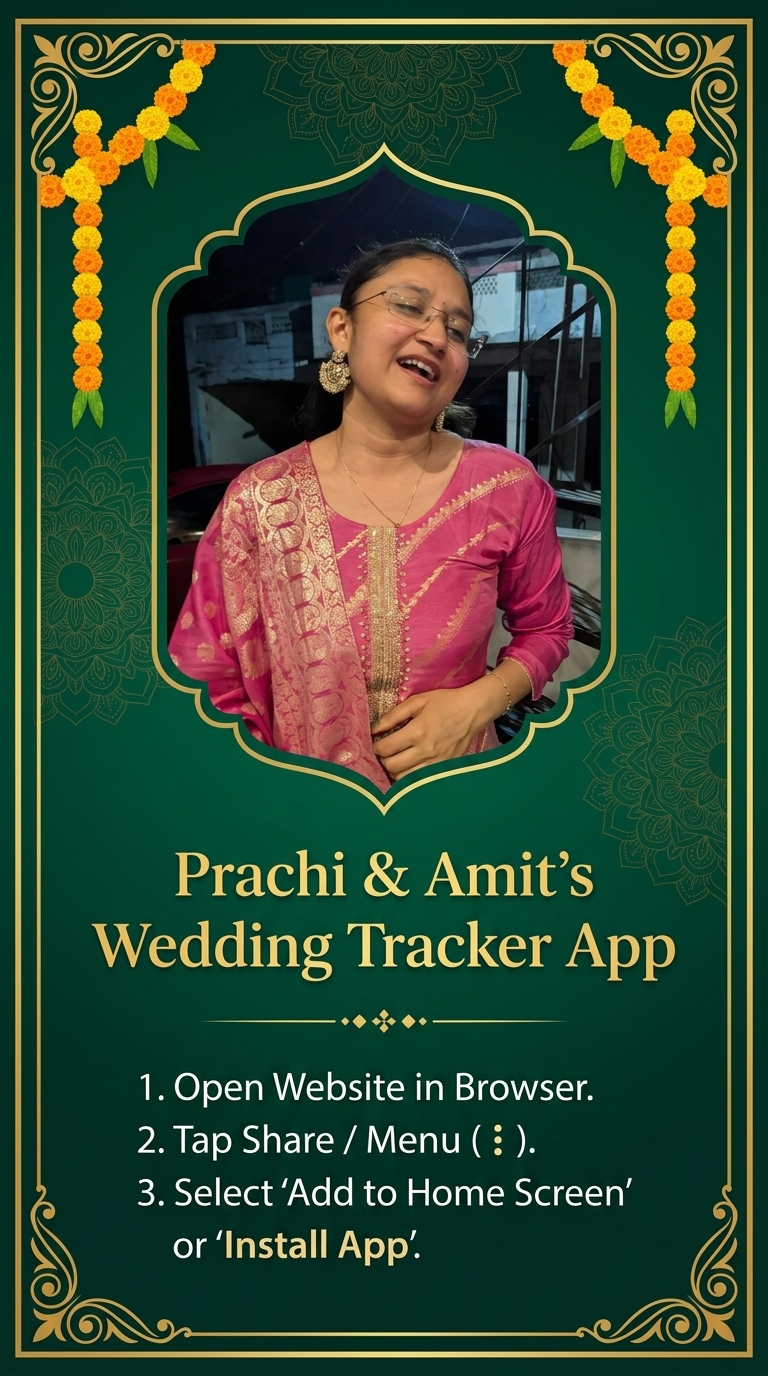
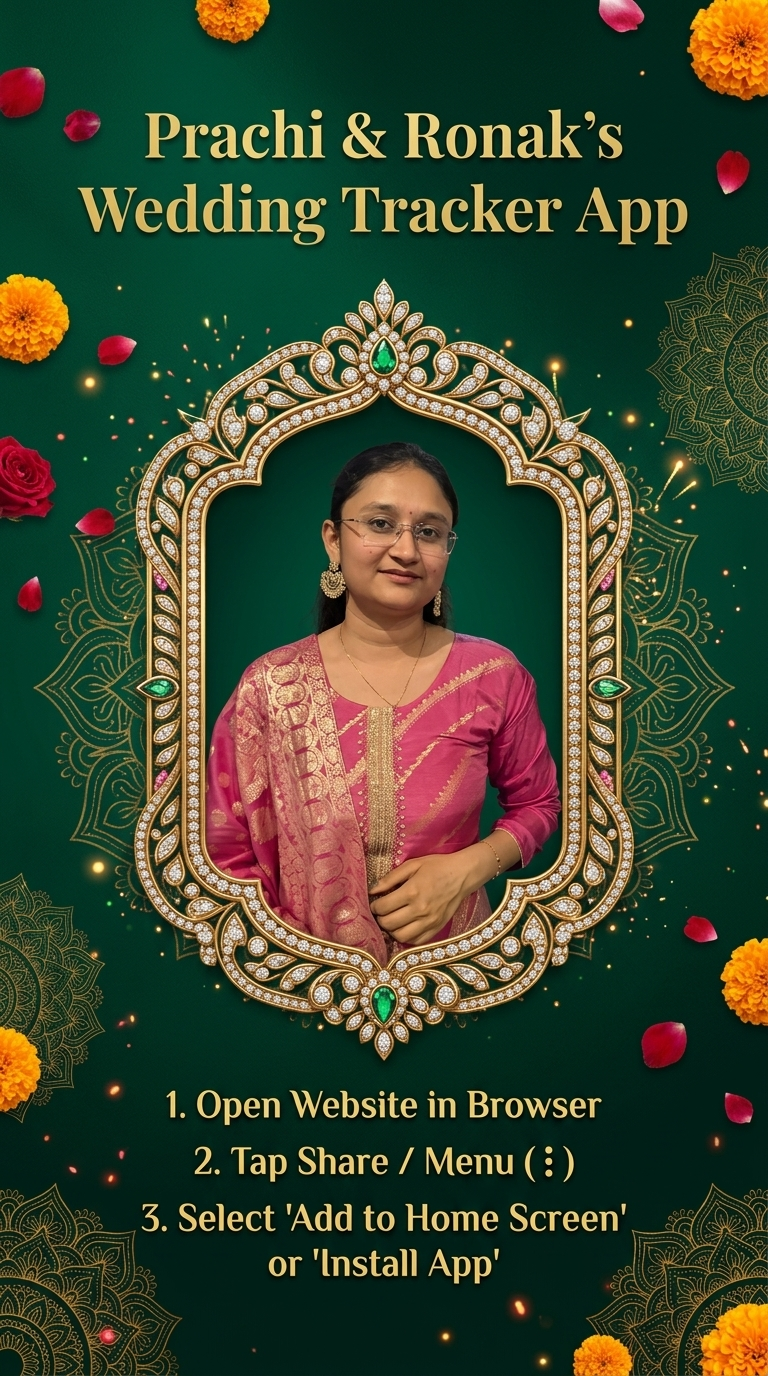
Correct groom name to Ronak and update share card poster

diff --git a/src/app/layout.tsx b/src/app/layout.tsx
@@ -12,7 +12,7 @@ export const viewport: Viewport = {
 
 export const metadata: Metadata = {
   title: "Prachi's Wedding Planner | Luxury Celebrations Coordinator",
-  description: "A premium, festive, high-performance wedding planner dashboard for Prachi & Amit's dream wedding celebration. Plan schedules, budgets, guests, and vendor bookings.",
+  description: "A premium, festive, high-performance wedding planner dashboard for Prachi & Ronak's dream wedding celebration. Plan schedules, budgets, guests, and vendor bookings.",
   keywords: "wedding planner, wedding dashboard, prachi wedding, marriage coordinator, guest list, budget manager, vendor tracker",
   manifest: '/manifest.json',
   appleWebApp: {

diff --git a/src/components/DashboardHome.tsx b/src/components/DashboardHome.tsx
@@ -136,7 +136,7 @@ export default function DashboardHome({
           <div>
             <div className="flex items-center gap-2 text-amber-600 dark:text-amber-500 font-semibold text-sm mb-3">
               <Heart className="w-4.5 h-4.5 fill-current" />
-              <span>Prachi & Amit’s Wedding Day</span>
+              <span>Prachi & Ronak’s Wedding Day</span>
             </div>
             <h1 className="font-serif text-3xl sm:text-4xl font-bold text-stone-900 dark:text-stone-100 tracking-tight leading-tight">
               Namaste, {currentUser.full_name}!

diff --git a/src/components/Login.tsx b/src/components/Login.tsx
@@ -85,7 +85,7 @@ export default function Login({ onAuthSuccess, localProfiles }: LoginProps) {
         onAuthSuccess(matched);
         triggerConfetti();
       } else {
-        setErrorMessage('Local simulation: User email not found. Try prachi@wedding.com, amit@wedding.com, or rohan@wedding.com.');
+        setErrorMessage('Local simulation: User email not found. Try prachi@wedding.com, ronak@wedding.com, or rohan@wedding.com.');
       }
     }
     setLoading(false);
